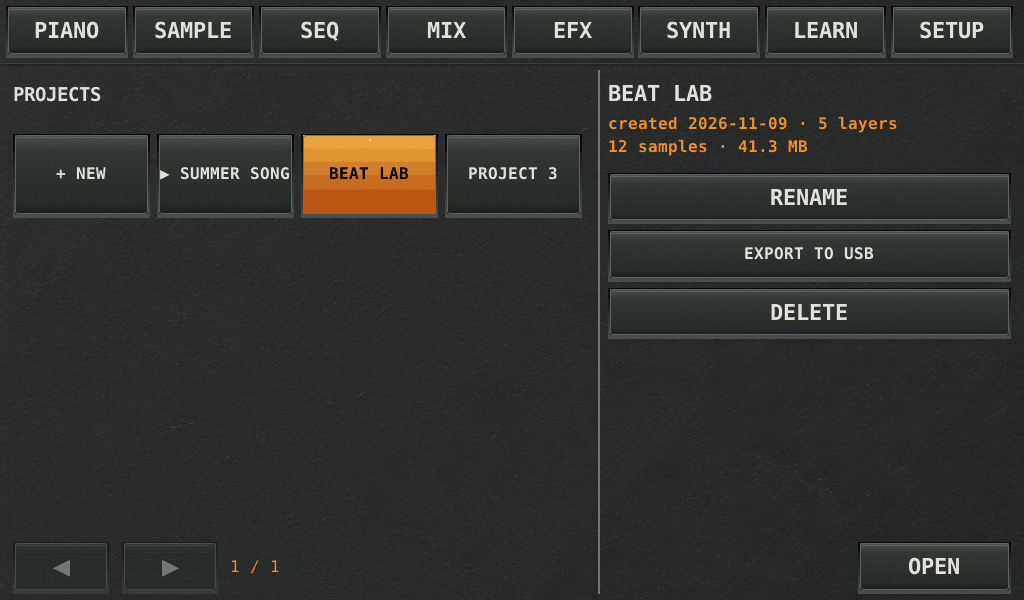
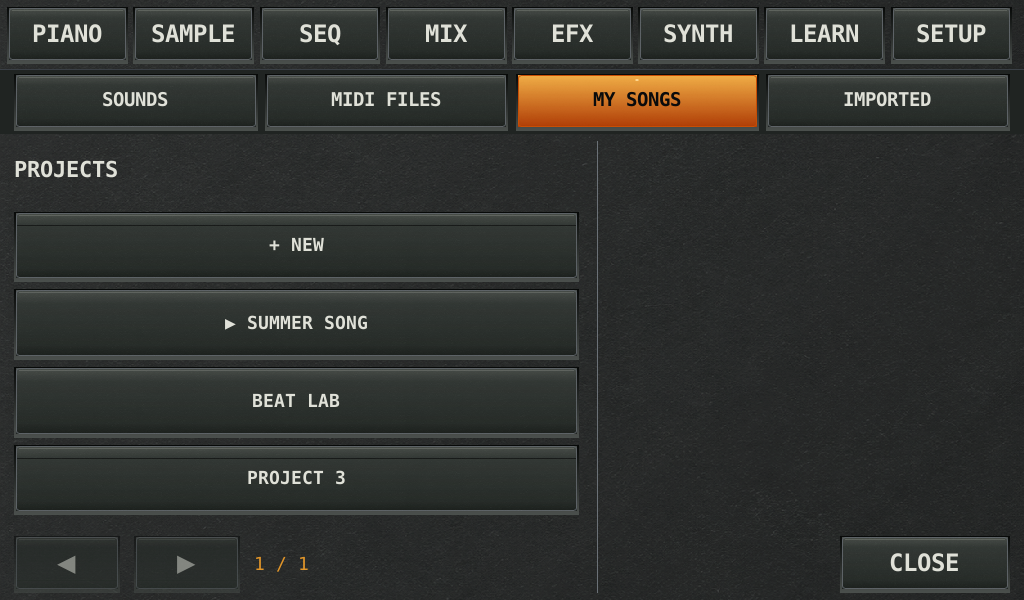
Refresh PianoBox library and session transfer pages

diff --git a/projects/pianobox.html b/projects/pianobox.html
@@ -59,8 +59,8 @@
 
   <header class="border-hairline-b bg-mono-950/95 sticky top-0 z-30 backdrop-blur-sm">
     <div class="max-w-[1400px] mx-auto px-4 sm:px-6 lg:px-8">
-      <div class="h-14 flex items-center justify-between gap-4">
-        <div class="flex items-center space-x-3 text-xs font-mono">
+      <div class="min-h-14 py-3 flex flex-wrap items-center justify-between gap-3">
+        <div class="flex flex-wrap items-center gap-3 text-xs font-mono">
           <a href="../index.html" class="flex items-center space-x-2 text-white font-semibold uppercase hover:text-accent-orange transition-colors">
             <span class="w-2.5 h-2.5 bg-accent-orange inline-block"></span>
             <span>piksliviksi</span>
@@ -70,9 +70,9 @@
           <span class="text-mono-600">/</span>
           <span class="text-accent-orange font-semibold">14_PIANOBOX</span>
         </div>
-        <div class="flex items-center space-x-3 font-mono text-xs">
-          <a href="https://github.com/piksliviksi/PianoBox" target="_blank" rel="noopener" class="inline-flex items-center space-x-1.5 px-3 py-1.5 border border-accent-orange text-accent-orange hover:bg-accent-orange hover:text-black transition text-xs font-mono">
-            <span>SOURCE ON GITHUB</span>
+        <div class="flex flex-wrap items-center gap-3 font-mono text-xs">
+          <a href="https://github.com/piksliviksi" target="_blank" rel="noopener" class="inline-flex items-center space-x-1.5 px-3 py-1.5 border border-accent-orange text-accent-orange hover:bg-accent-orange hover:text-black transition text-xs font-mono">
+            <span>CONTACT / ACCESS</span>
             <span>↗</span>
           </a>
           <a href="../index.html" class="inline-flex items-center space-x-1.5 px-3 py-1.5 border border-mono-700 hover:border-mono-400 text-mono-200 hover:text-white bg-mono-900 transition text-xs font-mono">
@@ -89,13 +89,13 @@
     <!-- Identification banner -->
     <div class="border-hairline bg-mono-900/60 p-6 sm:p-8 mb-8">
       <div class="flex flex-wrap items-center justify-between gap-4 border-hairline-b pb-4 mb-6">
-        <div class="flex items-center space-x-3 font-mono text-xs">
+        <div class="flex flex-wrap items-center gap-3 font-mono text-xs">
           <span class="px-2 py-0.5 bg-accent-orange text-black font-bold">SYS_14</span>
           <span class="px-2 py-0.5 border border-mono-700 bg-mono-950 text-mono-300 uppercase">Music &amp; Education</span>
           <span class="px-2 py-0.5 border border-emerald-900/50 bg-emerald-950/20 text-emerald-400 uppercase text-[10px]">V1.2 BETA · RUNNING ON A PI 3B+</span>
         </div>
         <div class="font-mono text-xs text-mono-500 uppercase tracking-widest hidden sm:block">
-          OPEN HARDWARE · RUST · SLINT
+          PRIVATE SOURCE · RUST · SLINT
         </div>
       </div>
 
@@ -106,13 +106,13 @@
           Plug a USB-MIDI keyboard into a Raspberry Pi with a touch screen and it boots straight into an instrument:
           a sampled grand piano, a sampler with a real record button, an analog-style synth, an eight-layer song
           recorder with a mixer and effects, and a chord trainer built around the circle of fifths. Every control is
-          a big, plainly labelled button or fader on a dark screen. There is no mouse, no typing and no menu tree
-          deeper than one tap.
+          a big, plainly labelled button or fader on a dark screen. Each page has one job, and the top row keeps
+          the main pages within reach.
         </p>
         <p class="text-mono-300 text-sm sm:text-base leading-relaxed font-sans mb-6">
-          The point is not a toy piano. It is a small studio a child can actually run, where recording a sound,
-          cutting it up, putting it on the keys, layering a song and hearing what a compressor does are all one
-          finger away. The engine is written in Rust and runs on a 512 MB Pi Zero 2 W.
+          It is a small studio a child can run: record a sound,
+          cut it up, put it on the keys, layer a song and hear what a compressor does. The main tools are one
+          finger away. The engine is written in Rust; the current hardware bench is a Raspberry Pi 3B+.
         </p>
 
         <div class="grid grid-cols-1 sm:grid-cols-2 lg:grid-cols-3 gap-3 font-mono text-xs pt-4 border-hairline-t">
@@ -126,7 +126,7 @@
           </div>
           <div>
             <span class="text-mono-500 uppercase block text-[10px]">Repository</span>
-            <a href="https://github.com/piksliviksi/PianoBox" target="_blank" rel="noopener" class="text-accent-orange hover:text-white transition">github.com/piksliviksi/PianoBox</a>
+            <a href="https://github.com/piksliviksi" target="_blank" rel="noopener" class="text-accent-orange hover:text-white transition">Private application source</a>
           </div>
         </div>
       </div>
@@ -177,18 +177,42 @@
         </figure>
 
         <figure class="shot border-hairline bg-mono-950">
-          <img src="../images/pianobox/browser.png" alt="Library browser: a grid of sound tiles with an info panel and PICK button" class="w-full cursor-pointer" onclick="openModal(this.src, 'LIBRARY')">
+          <img src="../images/pianobox/browser.png" alt="Sound library with four wide rows and SOUNDS, MIDI FILES, MY SONGS and IMPORTED tabs" class="w-full cursor-pointer" onclick="openModal(this.src, 'LIBRARY · SOUNDS')">
           <figcaption class="p-4 border-hairline-t">
-            <div class="font-mono text-xs text-accent-orange mb-1">LIBRARY</div>
-            <p class="text-xs sm:text-sm text-mono-300 leading-relaxed">Big tiles, eight per page: pianos, synth, your favourites, your own libraries and every folder of sounds. Tap once to see what it is, tap again to pick it. STAR it, ADD TO LIBRARY, or delete your own recordings. New sounds arrive from a USB stick through SETUP › ADD SOUNDS / USB.</p>
+            <div class="font-mono text-xs text-accent-orange mb-1">LIBRARY · SOUNDS</div>
+            <p class="text-xs sm:text-sm text-mono-300 leading-relaxed">Four clear pages separate SOUNDS, MIDI FILES, MY SONGS and IMPORTED projects. Sounds use four wide rows per page, with wrapped names that remain readable on the 3.5-inch screen. Tap once to inspect a sound and again to choose it; previous and next buttons move through the list. Your sound folder and page are remembered while browsing songs.</p>
           </figcaption>
         </figure>
 
         <figure class="shot border-hairline bg-mono-950">
-          <img src="../images/pianobox/projects.png" alt="Project browser: tiles for each song with OPEN, RENAME, EXPORT TO USB and DELETE" class="w-full cursor-pointer" onclick="openModal(this.src, 'PROJECTS')">
+          <img src="../images/pianobox/projects.png" alt="Saved PianoBox songs with open, rename, export and delete controls" class="w-full cursor-pointer" onclick="openModal(this.src, 'MY SONGS')">
           <figcaption class="p-4 border-hairline-t">
-            <div class="font-mono text-xs text-accent-orange mb-1">PROJECTS</div>
-            <p class="text-xs sm:text-sm text-mono-300 leading-relaxed">Every song is a project with its own favourites, libraries and effect settings. SETUP › PROJECT opens them as tiles: + NEW, OPEN, RENAME, DELETE, and EXPORT TO USB, which copies the song, a MIDI file and every sound it uses so another PianoBox can play it.</p>
+            <div class="font-mono text-xs text-accent-orange mb-1">MY SONGS</div>
+            <p class="text-xs sm:text-sm text-mono-300 leading-relaxed">Every song keeps its own favourites, libraries and effect settings. MY SONGS holds songs created in PianoBox; imported work has its own page. Create a new song, open or rename one, export it to USB, or confirm its deletion.</p>
+          </figcaption>
+        </figure>
+
+        <figure class="shot border-hairline bg-mono-950">
+          <img src="../images/pianobox/imported-projects.png" alt="Imported songs show their source and have rename, export and delete controls" class="w-full cursor-pointer" onclick="openModal(this.src, 'IMPORTED PROJECTS')">
+          <figcaption class="p-4 border-hairline-t">
+            <div class="font-mono text-xs text-accent-orange mb-1">IMPORTED PROJECTS</div>
+            <p class="text-xs sm:text-sm text-mono-300 leading-relaxed">A separate home for imported MIDI, Logic and GarageBand songs. The source label stays with a song after renaming. IMPORT PROJECT opens local files or a USB drive; importing creates a new PianoBox song and leaves the original file untouched.</p>
+          </figcaption>
+        </figure>
+
+        <figure class="shot border-hairline bg-mono-950">
+          <img src="../images/pianobox/apple-import.png" alt="Import preview with separate layers, MIDI merging, optional audio and a selected bar range" class="w-full cursor-pointer" onclick="openModal(this.src, 'MIDI &amp; APPLE IMPORT')">
+          <figcaption class="p-4 border-hairline-t">
+            <div class="font-mono text-xs text-accent-orange mb-1">MIDI &amp; APPLE IMPORT</div>
+            <p class="text-xs sm:text-sm text-mono-300 leading-relaxed">Bring in single-track or multitrack MIDI, native Logic projects, and GarageBand projects from Mac or iPhone/iPad. Keep parts on separate layers or merge MIDI into one instrument. Apple projects offer an explicit bar range and optional bundled WAV audio. Choose PianoBox sounds after import; Apple instruments, plugins and automation are not translated.</p>
+          </figcaption>
+        </figure>
+
+        <figure class="shot border-hairline bg-mono-950">
+          <img src="../images/pianobox/export-apple.png" alt="USB export choices for native Logic and GarageBand import packs" class="w-full cursor-pointer" onclick="openModal(this.src, 'EXPORT TO USB')">
+          <figcaption class="p-4 border-hairline-t">
+            <div class="font-mono text-xs text-accent-orange mb-1">EXPORT TO USB</div>
+            <p class="text-xs sm:text-sm text-mono-300 leading-relaxed">Save a song with its used samples, export aligned WAV stems, or transfer an editable SoundCraft, DAWproject or native Logic session. Logic keeps editable MIDI alongside audio prints that preserve the PianoBox sound. GarageBand Mac and iOS choices create clearly labelled MIDI/audio import packs, not native .band projects.</p>
           </figcaption>
         </figure>
 
@@ -330,6 +354,11 @@
       </section>
     </div>
 
+    <section class="border-hairline bg-mono-900/50 p-6 sm:p-8 mb-8">
+      <h2 class="font-mono text-xs text-accent-orange uppercase tracking-widest mb-3">Transfer compatibility</h2>
+      <p class="text-sm text-mono-300 leading-relaxed">Logic export writes a native .logicx package with editable MIDI and audio prints. Its binary structure, notes and media are checked, but opening generated sessions in Logic remains an external compatibility test. GarageBand export currently uses MIDI/audio import packs for Mac and iPhone/iPad. Native .band, Ableton .als and Pro Tools .ptx export are not available. WAV stems offer a separate route for mixing in other DAWs.</p>
+    </section>
+
     <!-- Build one -->
     <section class="border-hairline bg-mono-900/50 p-6 sm:p-8 mb-8">
       <div class="flex items-center space-x-2 text-mono-300 font-mono text-xs uppercase tracking-widest border-hairline-b pb-3 mb-6">
@@ -344,9 +373,9 @@
           <div class="border-hairline p-4 bg-mono-900/60"><span class="text-accent-orange font-mono text-xs block mb-1 font-semibold">Sound</span><span class="text-mono-200 text-xs font-sans leading-relaxed">Headphone jack works; a PCM5122 / HiFiBerry-style DAC HAT sounds better. Optional USB mic as a side-chain key.</span></div>
         </div>
         <div class="border-hairline p-4 bg-mono-950 font-mono text-xs text-mono-200 leading-relaxed">
-          <div class="text-mono-500 uppercase text-[10px] mb-2">On the Pi</div>
-<pre class="whitespace-pre-wrap">git clone https://github.com/piksliviksi/PianoBox ~/pianobox
-cd ~/pianobox
+          <div class="text-mono-500 uppercase text-[10px] mb-2">For collaborators with repository access</div>
+          <p class="text-mono-300 mb-4">The application source is private. The installers below are included with an authorized checkout; there is no public source download.</p>
+<pre class="whitespace-pre-wrap">cd ~/pianobox
 bash deploy/install-pi.sh --samples
 sudo reboot</pre>
           <div class="text-mono-500 uppercase text-[10px] mt-4 mb-2">On an Ubuntu / Debian laptop, with sound</div>
@@ -361,7 +390,7 @@ sudo reboot</pre>
     <nav class="border-hairline bg-mono-950 p-4 sm:p-6 flex flex-col sm:flex-row items-center justify-between gap-4 font-mono text-xs">
       <a href="kratt.html" class="inline-flex items-center space-x-2 text-mono-400 hover:text-white transition"><span>←</span><span>PREVIOUS: KRATT (#13)</span></a>
       <a href="../index.html" class="px-4 py-2 border border-mono-700 bg-mono-900 text-mono-200 hover:text-white hover:border-mono-400 transition">CATALOG OVERVIEW</a>
-      <a href="https://github.com/piksliviksi/PianoBox" target="_blank" rel="noopener" class="inline-flex items-center space-x-2 text-accent-orange hover:text-white transition"><span>SOURCE: github.com/piksliviksi/PianoBox</span><span>↗</span></a>
+      <a href="https://github.com/piksliviksi" target="_blank" rel="noopener" class="inline-flex items-center space-x-2 text-accent-orange hover:text-white transition"><span>PRIVATE SOURCE / CONTACT AUTHOR</span><span>↗</span></a>
     </nav>
   </main>
 
@@ -369,7 +398,7 @@ sudo reboot</pre>
     <div class="relative max-w-7xl max-h-[95vh] w-full flex flex-col items-center" onclick="event.stopPropagation()">
       <div class="w-full flex items-center justify-between pb-3 text-mono-400 font-mono text-xs">
         <span id="modal-title">PianoBox</span>
-        <button onclick="closeModal()" class="px-3 py-1 border border-mono-700 hover:border-white text-white bg-mono-900">CLOSE [ESC]</button>
+        <button onclick="closeModal()" class="min-h-11 px-4 py-2 border border-mono-700 hover:border-white text-white bg-mono-900">CLOSE [ESC]</button>
       </div>
       <img id="modal-img" src="" alt="Full-size screen" class="max-h-[85vh] w-auto object-contain border-hairline shadow-2xl" />
     </div>
@@ -383,7 +412,7 @@ sudo reboot</pre>
         <span class="text-mono-700">|</span>
         <span>MUSIC &amp; EDUCATION</span>
       </div>
-      <div><a href="https://github.com/piksliviksi/PianoBox" target="_blank" rel="noopener" class="hover:text-mono-300 transition">github.com/piksliviksi/PianoBox</a></div>
+      <div><a href="https://github.com/piksliviksi" target="_blank" rel="noopener" class="hover:text-mono-300 transition">Private application source</a></div>
     </div>
   </footer>
 

diff --git a/piksliviksi_tactical_systems_catalog.html b/piksliviksi_tactical_systems_catalog.html
@@ -629,6 +629,26 @@
             "Autonomous prop-firm challenge watchdog with millisecond-resolution circuit breakers"
         ],
         tags: ["AI/ML", "Quantitative Intelligence", "Market Trends", "Sentiment Analysis", "Algorithmic Trading"]
+      },
+      {
+        id: "14",
+        name: "PianoBox",
+        slug: "pianobox",
+        domain: "Music & Education",
+        role: "Touch-Screen Music Box for Kids: Piano, Sampler, Synth, Sequencer & Chord Trainer",
+        platform: "Raspberry Pi Zero 2 W / 3 / 4 / 5 · 3.5\" to 10\" touch panel · USB-MIDI keyboard",
+        protocol: "USB-MIDI (class compliant) / ALSA 48 kHz / Rust + Slint kiosk UI",
+        image: "images/pianobox/main.png",
+        description: "A Raspberry Pi with a touch screen and a USB-MIDI keyboard that boots straight into an instrument a ten-year-old can run with one finger: sampled grand piano, a sampler with a real record button, an analog-style synth, an eight-layer song recorder with mixer and effects, and a circle-of-fifths chord trainer. Written in Rust; application source is private.",
+        specs: [
+            "Record your own sounds, trim, loop, reverse, chop onto the keys and play them back",
+            "Eight-layer MIDI song recorder with count-in, quantize, piano roll and clip editing",
+            "Eight effects, four master compressor flavours and a lookahead limiter, all with knobs you can hear",
+            "Four library pages: sounds, MIDI files, saved songs and imported projects; wide labels for small screens",
+            "MIDI, Logic and GarageBand import; USB song bundles, WAV stems, editable Logic and DAWproject transfer",
+            "Chord trainer on the circle of fifths with stars, lessons and a built-in help page per screen"
+        ],
+        tags: ["MusicBox", "Music", "Education", "Raspberry Pi", "Rust", "Slint", "MIDI", "Sampler", "Synth"]
       }
     ];
 
@@ -708,7 +728,7 @@
     }
 
     // Categories Setup
-    const DOMAINS = ["ALL", "RF & EW", "Alternative PNT", "C4ISR & Recon", "Autonomy & Sim", "AI & OSINT"];
+    const DOMAINS = ["ALL", "RF & EW", "Alternative PNT", "C4ISR & Recon", "Autonomy & Sim", "AI & OSINT", "Music & Education"];
 
     function renderCategoryButtons() {
       categoryBar.innerHTML = "";

diff --git a/index.html b/index.html
@@ -639,15 +639,16 @@
         platform: "Raspberry Pi Zero 2 W / 3 / 4 / 5 · 3.5\" to 10\" touch panel · USB-MIDI keyboard",
         protocol: "USB-MIDI (class compliant) / ALSA 48 kHz / Rust + Slint kiosk UI",
         image: "images/pianobox/main.png",
-        description: "A Raspberry Pi with a touch screen and a USB-MIDI keyboard that boots straight into an instrument a ten-year-old can run with one finger: sampled grand piano, a sampler with a real record button, an analog-style synth, an eight-layer song recorder with mixer and effects, and a circle-of-fifths chord trainer. Open source, written in Rust.",
+        description: "A Raspberry Pi with a touch screen and a USB-MIDI keyboard that boots straight into an instrument a ten-year-old can run with one finger: sampled grand piano, a sampler with a real record button, an analog-style synth, an eight-layer song recorder with mixer and effects, and a circle-of-fifths chord trainer. Written in Rust; application source is private.",
         specs: [
             "Record your own sounds, trim, loop, reverse, chop onto the keys and play them back",
             "Eight-layer MIDI song recorder with count-in, quantize, piano roll and clip editing",
             "Eight effects, four master compressor flavours and a lookahead limiter, all with knobs you can hear",
-            "Projects with their own favourites, libraries and effect settings; export one to USB with its sounds",
+            "Four library pages: sounds, MIDI files, saved songs and imported projects; wide labels for small screens",
+            "MIDI, Logic and GarageBand import; USB song bundles, WAV stems, editable Logic and DAWproject transfer",
             "Chord trainer on the circle of fifths with stars, lessons and a built-in help page per screen"
         ],
-        tags: ["Music", "Education", "Raspberry Pi", "Rust", "Slint", "MIDI", "Sampler", "Synth", "Open Source"]
+        tags: ["MusicBox", "Music", "Education", "Raspberry Pi", "Rust", "Slint", "MIDI", "Sampler", "Synth"]
       }
     ];
 

diff --git a/update_index.py b/update_index.py
@@ -649,15 +649,16 @@ INDEX_HTML = """<!DOCTYPE html>
         platform: "Raspberry Pi Zero 2 W / 3 / 4 / 5 · 3.5\" to 10\" touch panel · USB-MIDI keyboard",
         protocol: "USB-MIDI (class compliant) / ALSA 48 kHz / Rust + Slint kiosk UI",
         image: "images/pianobox/main.png",
-        description: "A Raspberry Pi with a touch screen and a USB-MIDI keyboard that boots straight into an instrument a ten-year-old can run with one finger: sampled grand piano, a sampler with a real record button, an analog-style synth, an eight-layer song recorder with mixer and effects, and a circle-of-fifths chord trainer. Open source, written in Rust.",
+        description: "A Raspberry Pi with a touch screen and a USB-MIDI keyboard that boots straight into an instrument a ten-year-old can run with one finger: sampled grand piano, a sampler with a real record button, an analog-style synth, an eight-layer song recorder with mixer and effects, and a circle-of-fifths chord trainer. Written in Rust; application source is private.",
         specs: [
             "Record your own sounds, trim, loop, reverse, chop onto the keys and play them back",
             "Eight-layer MIDI song recorder with count-in, quantize, piano roll and clip editing",
             "Eight effects, four master compressor flavours and a lookahead limiter, all with knobs you can hear",
-            "Projects with their own favourites, libraries and effect settings; export one to USB with its sounds",
+            "Four library pages: sounds, MIDI files, saved songs and imported projects; wide labels for small screens",
+            "MIDI, Logic and GarageBand import; USB song bundles, WAV stems, editable Logic and DAWproject transfer",
             "Chord trainer on the circle of fifths with stars, lessons and a built-in help page per screen"
         ],
-        tags: ["Music", "Education", "Raspberry Pi", "Rust", "Slint", "MIDI", "Sampler", "Synth", "Open Source"]
+        tags: ["MusicBox", "Music", "Education", "Raspberry Pi", "Rust", "Slint", "MIDI", "Sampler", "Synth"]
       }
     ];
 
